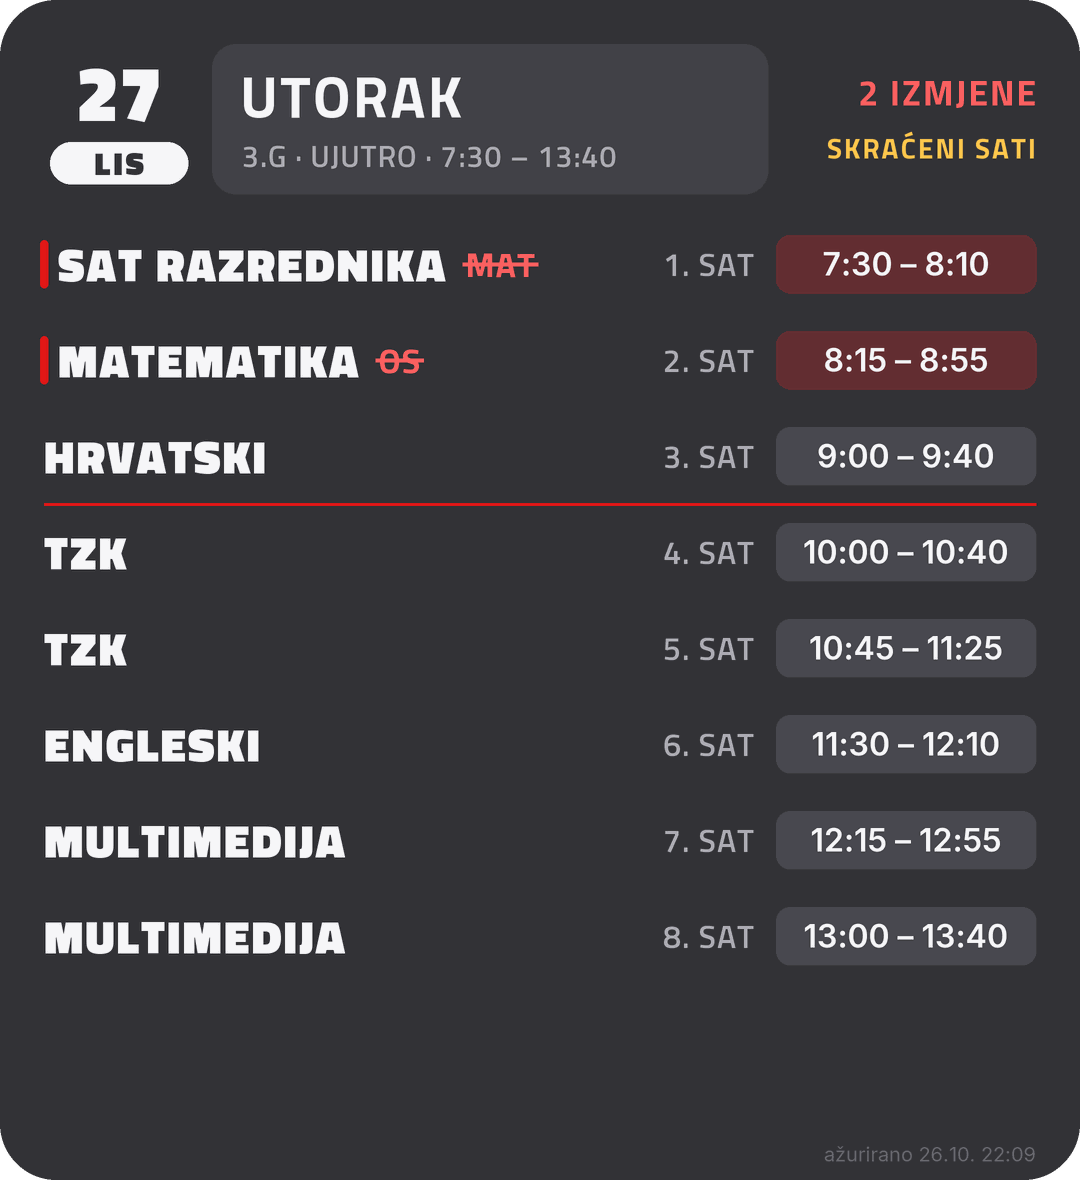
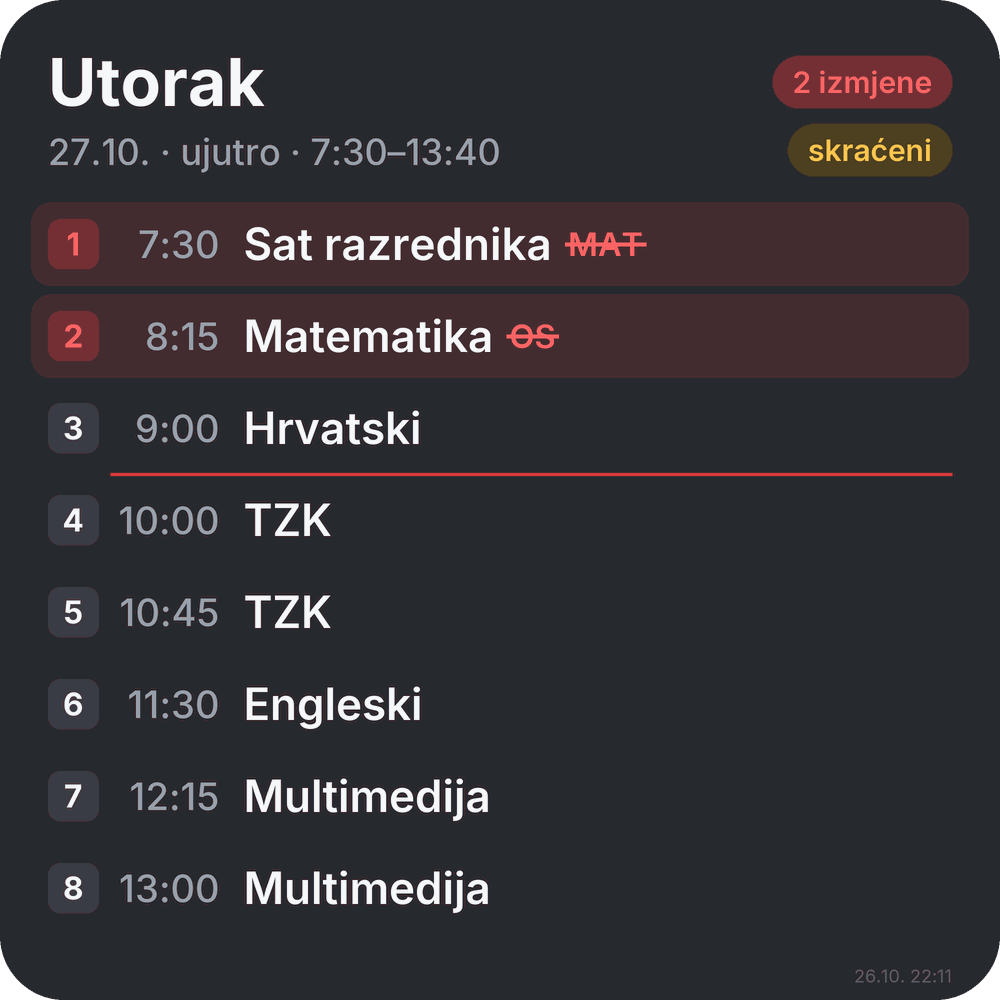
Kvadratni widget 2x2 s Inter fontom

diff --git a/slika.py b/slika.py
@@ -1,63 +1,47 @@
-"""Crta jedan dan rasporeda kao PNG karticu za KWGT widget (Image element s URL-om).
-
-Stil po uzoru na Racify F1 widget: siva kartica, veliki predmeti velikim slovima,
-vremena u svjetlijim zaobljenim poljima, crvena crta na velikom odmoru.
-"""
+"""Crta jedan dan rasporeda kao kvadratnu PNG karticu za KWGT widget 2x2 (Image element s URL-om)."""
 from pathlib import Path
 
 from PIL import Image, ImageDraw, ImageFont
 
 FONTS = Path(__file__).parent / "fonts"
 S = 2  # crta se u dvostrukoj rezoluciji pa smanji, za glatke rubove
-W, H = 1080, 1180
-OPACITY = 248
+W = H = 1000  # kvadrat, kao widget 2x2
+OPACITY = 245
 
-CARD = (44, 44, 48, 255)
-PANEL = (62, 62, 67, 255)
-CHIP = (68, 68, 74, 255)
-WHITE = (246, 246, 248, 255)
-MUTED = (172, 172, 180, 255)
-DIM = (98, 98, 106, 255)
-F1_RED = (225, 16, 16, 255)
-RED = (255, 92, 92, 255)
-RED_CHIP = (96, 40, 44, 255)
-GREEN = (96, 214, 140, 255)
+CARD = (30, 32, 37, 255)
+CHIP = (50, 53, 61, 255)
+WHITE = (244, 246, 249, 255)
+MUTED = (150, 157, 170, 255)
+DIM = (82, 87, 98, 255)
+RED = (255, 96, 96, 255)
+RED_ROW = (62, 36, 40, 255)
+RED_CHIP = (110, 40, 46, 255)
+LINE_RED = (220, 52, 52, 255)
+GREEN = (98, 216, 142, 255)
+GREEN_BG = (30, 62, 44, 255)
 AMBER = (255, 196, 72, 255)
+AMBER_BG = (70, 56, 24, 255)
 
-MJESECI = ["SIJ", "VELJ", "OŽU", "TRA", "SVI", "LIP", "SRP", "KOL", "RUJ", "LIS", "STU", "PRO"]
-
-
-def font(name, size):
-    return ImageFont.truetype(str(FONTS / f"{name}.ttf"), round(size * S))
+DANI = ["PON", "UTO", "SRI", "ČET", "PET", "SUB", "NED"]
 
 
-def spaced(d, xy, t, f, fill, tracking=0, anchor="lm", draw=True):
-    """Tekst s razmakom među slovima (Pillow to nema); vraća širinu."""
-    track = tracking * S
-    widths = [d.textlength(ch, font=f) for ch in t]
-    total = sum(widths) + track * max(len(t) - 1, 0)
-    if draw:
-        x, y = xy
-        if anchor[0] == "r":
-            x -= total
-        for ch, w in zip(t, widths):
-            d.text((x, y), ch, font=f, fill=fill, anchor="l" + anchor[1])
-            x += w + track
-    return total
+def font(weight, size):
+    return ImageFont.truetype(str(FONTS / f"Inter-{weight}.ttf"), round(size * S))
 
 
-def chip(d, x_right, cy, t, f, fg, bg, h=58):
-    """Zaobljeno polje desno poravnato na x_right, iste širine za sva vremena; vraća lijevi rub."""
-    h *= S
-    w = max(d.textlength(t, font=f), d.textlength("00:00 – 00:00", font=f)) + 2 * 20 * S
-    d.rounded_rectangle([x_right - w, cy - h / 2, x_right, cy + h / 2], radius=14 * S, fill=bg)
+def pill(d, x_right, cy, t, f, fg, bg):
+    """Zaobljena oznaka desno poravnata na x_right; vraća lijevi rub."""
+    h = 52 * S
+    w = d.textlength(t, font=f) + 2 * 20 * S
+    d.rounded_rectangle([x_right - w, cy - h / 2, x_right, cy + h / 2], radius=h / 2, fill=bg)
     d.text((x_right - w / 2, cy), t, font=f, fill=fg, anchor="mm")
     return x_right - w
 
 
 def struck(d, x, y, t, f, color):
     """Tekst s pravom crtom preko sredine; vraća širinu. y je sredina retka."""
-    w = spaced(d, (x, y), t, f, color, tracking=1)
+    d.text((x, y), t, font=f, fill=color, anchor="lm")
+    w = d.textlength(t, font=f)
     d.line([x - 3 * S, y, x + w + 3 * S, y], fill=color, width=4 * S)
     return w
 
@@ -65,103 +49,81 @@ def struck(d, x, y, t, f, color):
 def render(day, razred, azurirano, path):
     img = Image.new("RGBA", (W * S, H * S), (0, 0, 0, 0))
     d = ImageDraw.Draw(img)
-    d.rounded_rectangle([0, 0, W * S - 1, H * S - 1], radius=56 * S, fill=CARD)
-    pad = 44 * S
+    d.rounded_rectangle([0, 0, W * S - 1, H * S - 1], radius=64 * S, fill=CARD)
+    pad = 48 * S
     right = W * S - pad
 
-    # --- zaglavlje: datum | panel s danom | status
-    top, head_h = pad, 150 * S
-    dan, mj = int(day["datum"][8:]), MJESECI[int(day["datum"][5:7]) - 1]
-    date_w = 150 * S
-    d.text((pad + date_w / 2, top + 48 * S), str(dan), font=font("TitilliumWeb-Black", 78), fill=WHITE, anchor="mm")
-    d.rounded_rectangle([pad + 6 * S, top + 98 * S, pad + date_w - 6 * S, top + 140 * S], radius=21 * S, fill=WHITE)
-    mj_f = font("TitilliumWeb-Black", 32)
-    w_mj = spaced(d, (0, 0), mj, mj_f, CARD, tracking=3, draw=False)
-    spaced(d, (pad + date_w / 2 - w_mj / 2, top + 119 * S), mj, mj_f, CARD, tracking=3)
-
-    status_w = 250 * S
-    px0, px1 = pad + date_w + 18 * S, right - status_w - 18 * S
-    d.rounded_rectangle([px0, top, px1, top + head_h], radius=24 * S, fill=PANEL)
-    spaced(d, (px0 + 28 * S, top + 52 * S), day["dan"].upper(), font("TitilliumWeb-Bold", 58), WHITE, tracking=2)
-    sub = f"{razred} · {day['smjena'].upper()}"
+    # --- zaglavlje: "UTO 27.10." + status desno, ispod smjena i vrijeme
+    dd, mm = int(day["datum"][8:]), int(day["datum"][5:7])
+    d.text((pad, pad + 34 * S), f"{day['dan']}", font=font("Bold", 66), fill=WHITE, anchor="lm")
+    sub = f"{dd}.{mm}. · {day['smjena']}"
     if day["dolazak"]:
-        sub += f" · {day['dolazak']} – {day['kraj']}"
-    spaced(d, (px0 + 30 * S, top + 112 * S), sub, font("TitilliumWeb-SemiBold", 30), MUTED, tracking=1)
+        sub += f" · {day['dolazak']}–{day['kraj']}"
+    d.text((pad, pad + 104 * S), sub, font=font("Medium", 36), fill=MUTED, anchor="lm")
 
-    sf = font("TitilliumWeb-Bold", 36)
+    pf = font("SemiBold", 30)
     n = day["broj_izmjena"]
     if n:
-        label = f"{n} IZMJENE" if 2 <= n % 10 <= 4 and not 12 <= n % 100 <= 14 else f"{n} IZMJENA"
-        status = [(label, RED)]
+        label = f"{n} izmjene" if 2 <= n % 10 <= 4 and not 12 <= n % 100 <= 14 else f"{n} izmjena"
+        pill(d, right, pad + 34 * S, label, pf, RED, RED_CHIP)
     elif day["izmjene_objavljene"]:
-        status = [("BEZ IZMJENA", GREEN)]
+        pill(d, right, pad + 34 * S, "bez izmjena", pf, GREEN, GREEN_BG)
     else:
-        status = [("ČEKA OBJAVU", MUTED)]
+        pill(d, right, pad + 34 * S, "čeka objavu", pf, MUTED, CHIP)
     if day["skraceni_sati"]:
-        status.append(("SKRAĆENI SATI", AMBER))
-    ys = [top + head_h / 2] if len(status) == 1 else [top + 48 * S, top + 104 * S]
-    for i, ((t, col), y) in enumerate(zip(status, ys)):
-        spaced(d, (right, y), t, sf if i == 0 else font("TitilliumWeb-Bold", 28), col, tracking=2, anchor="rm")
+        pill(d, right, pad + 102 * S, "skraćeni", pf, AMBER, AMBER_BG)
 
-    y = top + head_h + 22 * S
+    y = pad + 150 * S
     if day["cijeli_dan"]:
-        d.rounded_rectangle([pad, y, right, y + 60 * S], radius=16 * S, fill=RED_CHIP)
-        d.text((pad + 24 * S, y + 30 * S), day["cijeli_dan"].upper(), font=font("TitilliumWeb-Bold", 30), fill=RED,
-               anchor="lm")
-        y += 76 * S
+        d.rounded_rectangle([pad, y, right, y + 56 * S], radius=16 * S, fill=RED_ROW)
+        d.text((pad + 20 * S, y + 28 * S), day["cijeli_dan"], font=font("SemiBold", 30), fill=RED, anchor="lm")
+        y += 70 * S
 
-    # --- sati
-    footer_h = 44 * S
+    # --- sati: [broj] vrijeme  PREDMET  (precrtana kratica / učionica)
     sati = day["sati"]
-    row_h = min(96 * S, (H * S - footer_h - y) // max(len(sati), 1))
-    chip_f, label_f, abbr_f = font("Inter-SemiBold", 32), font("TitilliumWeb-SemiBold", 32), font("TitilliumWeb-Bold", 34)
+    bottom = H * S - 36 * S
+    row_h = min(92 * S, (bottom - y) // max(len(sati), 1))
+    size = min(44, row_h / S * 0.5)
+    num_f, time_f = font("Bold", size * 0.72), font("Medium", size * 0.86)
+    subj_f, small_f = font("SemiBold", size), font("SemiBold", size * 0.74)
+    bw = round(size * 1.15 * S)
+    x_time = pad + bw + round(size * 2.75 * S)  # desni rub stupca s vremenom
+    x_subj = x_time + round(size * 0.55 * S)
     for s in sati:
         cy = y + row_h / 2
         changed = s["izmjena"] or s["otpada"]
         free = not s["predmet"] and not s["otpada"]
-
-        # desno: vrijeme u polju, lijevo od njega "8. SAT" (i učionica)
-        t = f"{s['od']} – {s['do']}" if s["od"] and s["do"] else (s["od"] or "")
-        cx = chip(d, right, cy, t, chip_f, DIM if free else WHITE, RED_CHIP if changed else (PANEL if free else CHIP))
-        label = f"{s['sat']}. SAT"
-        if s["ucionica"]:
-            label = f"UČ. {s['ucionica']} · " + label
-        lx = cx - 22 * S - spaced(d, (cx - 22 * S, cy), label, label_f, DIM if free else MUTED, tracking=1,
-                                  anchor="rm")
-
-        # lijevo: predmet velikim slovima, smanji ako ne stane
-        x = pad + (14 * S if changed else 0)
         if changed:
-            d.rounded_rectangle([pad - 4 * S, cy - 24 * S, pad + 4 * S, cy + 24 * S], radius=4 * S, fill=F1_RED)
-        if free:
-            spaced(d, (x, cy), "—", font("TitilliumWeb-Bold", 46), DIM)
-        elif s["otpada"]:
-            w = spaced(d, (x, cy), "---", font("TitilliumWeb-Black", 46), RED, tracking=2)
-            if s["izvorno"]:
-                struck(d, x + w + 20 * S, cy, s["izvorna_kratica"], abbr_f, RED)
-        else:
-            name = s["predmet"].upper()
-            extra = 0
-            if s["izmjena"]:
-                extra = 20 * S + (spaced(d, (0, 0), s["izvorna_kratica"], abbr_f, RED, tracking=1, draw=False)
-                                  if s["izvorno"] else spaced(d, (0, 0), "NOVO", abbr_f, RED, 1, draw=False))
-            size = 46
-            while size > 30:
-                f = font("TitilliumWeb-Black", size)
-                if x + spaced(d, (0, 0), name, f, WHITE, 2, draw=False) + extra < lx - 24 * S:
-                    break
-                size -= 2
-            w = spaced(d, (x, cy), name, f, WHITE, tracking=2)
-            if s["izmjena"] and s["izvorno"]:
-                struck(d, x + w + 20 * S, cy, s["izvorna_kratica"], abbr_f, RED)
-            elif s["izmjena"]:
-                spaced(d, (x + w + 20 * S, cy), "NOVO", abbr_f, RED, tracking=1)
+            d.rounded_rectangle([pad - 16 * S, y + 5 * S, right + 16 * S, y + row_h - 5 * S], radius=18 * S,
+                                fill=RED_ROW)
+        d.rounded_rectangle([pad, cy - bw / 2, pad + bw, cy + bw / 2], radius=12 * S,
+                            fill=RED_CHIP if changed else CHIP)
+        d.text((pad + bw / 2, cy), str(s["sat"]), font=num_f, anchor="mm",
+               fill=RED if changed else (DIM if free else WHITE))
+        d.text((x_time, cy), s["od"] or "", font=time_f, fill=DIM if free else MUTED, anchor="rm")
 
+        x = x_subj
+        if free:
+            d.text((x, cy), "—", font=subj_f, fill=DIM, anchor="lm")
+        elif s["otpada"]:
+            w = d.textlength("---", font=subj_f)
+            d.text((x, cy), "---", font=subj_f, fill=RED, anchor="lm")
+            if s["izvorno"]:
+                struck(d, x + w + 16 * S, cy, s["izvorna_kratica"], small_f, RED)
+        else:
+            d.text((x, cy), s["predmet"], font=subj_f, fill=WHITE, anchor="lm")
+            w = d.textlength(s["predmet"], font=subj_f)
+            if s["izmjena"] and s["izvorno"]:
+                struck(d, x + w + 16 * S, cy, s["izvorna_kratica"], small_f, RED)
+            elif s["izmjena"]:
+                d.text((x + w + 16 * S, cy), "novo", font=small_f, fill=RED, anchor="lm")
+            elif s["ucionica"]:
+                d.text((right, cy), f"uč. {s['ucionica']}", font=small_f, fill=MUTED, anchor="rm")
         y += row_h
         if s["sat"] == 3 and s is not sati[-1]:  # veliki odmor
-            d.line([pad, y, right, y], fill=F1_RED, width=3 * S)
+            d.line([pad + bw + 12 * S, y, right, y], fill=LINE_RED, width=3 * S)
 
-    d.text((right, H * S - 26 * S), f"ažurirano {azurirano}", font=font("Inter-Regular", 20), fill=DIM, anchor="rm")
+    d.text((right, H * S - 24 * S), azurirano, font=font("Regular", 18), fill=DIM, anchor="rm")
 
     alpha = img.getchannel("A").point(lambda a: a * OPACITY // 255)
     img.putalpha(alpha)
